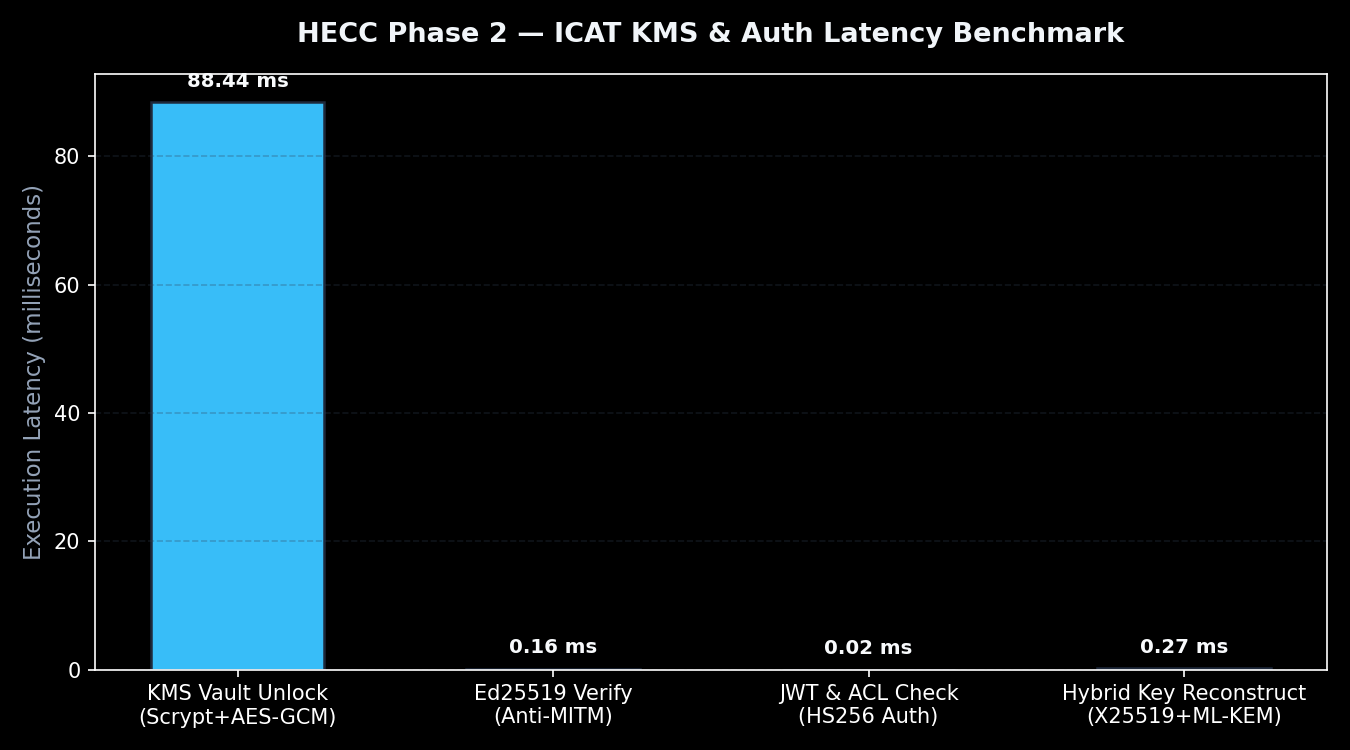
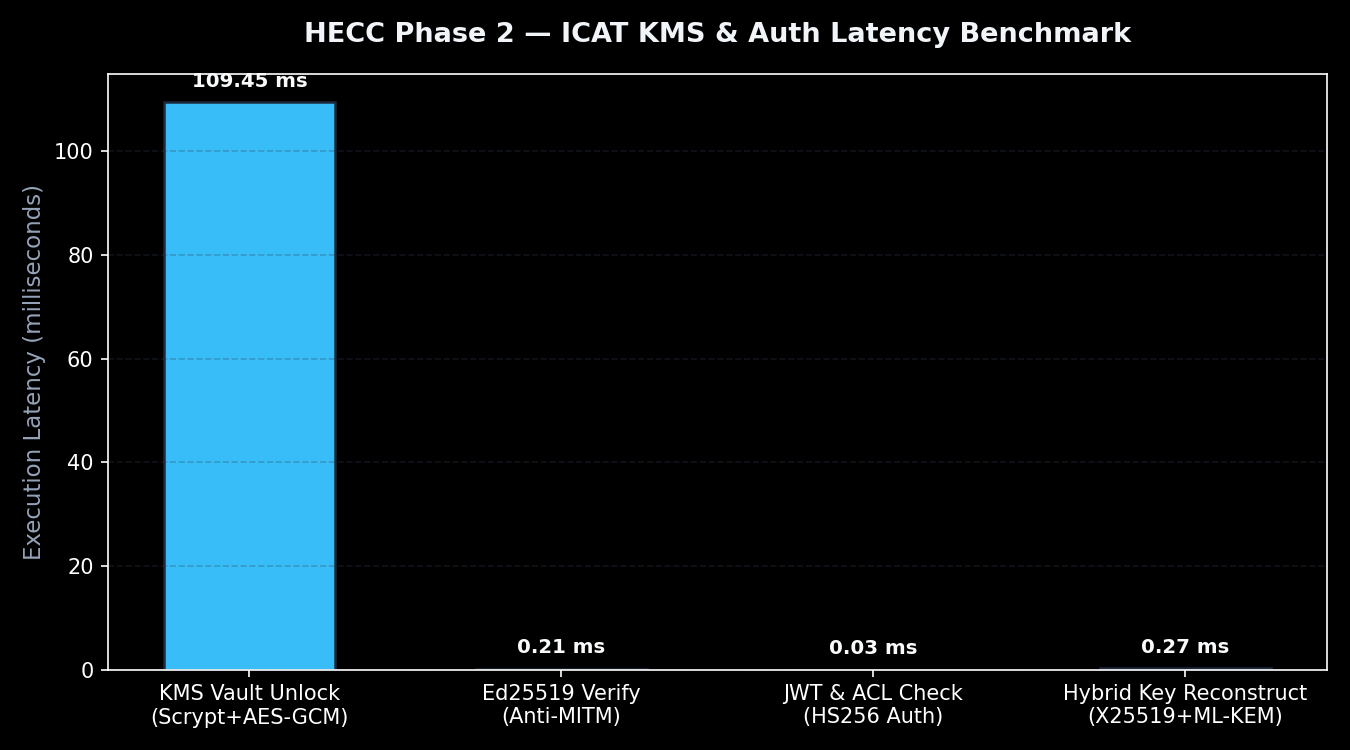
feat: remove cloud inbound enclaves card; enforce ICAT capsule-only decryption

diff --git a/web/receiver.html b/web/receiver.html
@@ -440,42 +440,10 @@ tr.selected td {
     <div class="status" id="auth-status" role="status"></div>
   </section>
 
-  <!-- Step 2: Inbound Cloud Files (Shared via Supabase) -->
-  <section class="panel" id="files-card" style="opacity: 0.45; pointer-events: none;">
-    <div class="panel-header">
-      <h2 class="panel-title">02. Cloud Inbound Enclaves</h2>
-      <span class="panel-spec">Supabase Encrypted Bucket</span>
-    </div>
-    <button class="btn-secondary" onclick="loadFiles()" style="margin-bottom: 0.75rem;">Query Shared Files</button>
-    <div class="table-wrapper">
-      <table>
-        <thead>
-          <tr>
-            <th>Artifact ID</th>
-            <th>Original Filename</th>
-            <th>Sender Origin</th>
-            <th>Version Chain</th>
-          </tr>
-        </thead>
-        <tbody id="file-list">
-          <tr><td colspan="4" style="text-align: center; color: var(--text-muted); padding: 1.5rem;">No encrypted files queried yet</td></tr>
-        </tbody>
-      </table>
-    </div>
-
-    <div style="font-family: var(--font-mono); font-size: 0.85rem; color: var(--text-dim); margin-top: 1.25rem; margin-bottom: 0.75rem;">
-      Selected Target: <span id="selected-file" style="color: var(--accent-emerald); font-weight: 600;">None selected</span>
-    </div>
-    <button id="decrypt-cloud-btn" class="btn-primary" onclick="doDecryptCloud()" disabled>
-      Validate Integrity &amp; Decrypt Cloud Payload
-    </button>
-    <div class="status" id="cloud-status" role="status"></div>
-  </section>
-
-  <!-- Step 3: Offline / ICAT Capsule Ingestion (.icat.json) -->
+  <!-- Step 2: Offline / ICAT Capsule Ingestion (.icat.json) -->
   <section class="panel" id="icat-card" style="opacity: 0.45; pointer-events: none;">
     <div class="panel-header">
-      <h2 class="panel-title">03. Ingest ICAT Capsule (.icat.json)</h2>
+      <h2 class="panel-title">02. Ingest ICAT Capsule (.icat.json)</h2>
       <span class="panel-spec">Split-Trust Decapsulation</span>
     </div>
     <p style="font-size: 0.85rem; color: var(--text-dim); margin-bottom: 1rem;">
@@ -581,14 +549,11 @@ function onAuthSuccess(data) {
   document.getElementById('auth-forms').style.display = 'none';
   document.getElementById('session-box').style.display = 'flex';
   document.getElementById('session-badge').textContent = `Authenticated: ${USER_EMAIL} | Vault Ready`;
-  setStatus('auth-status', 'ok', `✓ Session authorized as ${USER_EMAIL}. Ready to query and decrypt files.`);
+  setStatus('auth-status', 'ok', `✓ Session authorized as ${USER_EMAIL}. Ready to ingest ICAT capsule.`);
 
-  ['files-card', 'icat-card'].forEach(id => {
-    document.getElementById(id).style.opacity = '1';
-    document.getElementById(id).style.pointerEvents = 'auto';
-  });
-
-  loadFiles();
+  const icatCard = document.getElementById('icat-card');
+  icatCard.style.opacity = '1';
+  icatCard.style.pointerEvents = 'auto';
 }
 
 function doLogout() {
@@ -598,84 +563,13 @@ function doLogout() {
   TOKEN = null;
   USER_EMAIL = null;
   KMS_PASSPHRASE = null;
-  SELECTED = null;
 
   document.getElementById('auth-forms').style.display = 'block';
   document.getElementById('session-box').style.display = 'none';
-  ['files-card', 'icat-card'].forEach(id => {
-    document.getElementById(id).style.opacity = '0.45';
-    document.getElementById(id).style.pointerEvents = 'none';
-  });
+  const icatCard = document.getElementById('icat-card');
+  icatCard.style.opacity = '0.45';
+  icatCard.style.pointerEvents = 'none';
   setStatus('auth-status', 'info', 'Logged out. Session cleared.');
-}
-
-async function loadFiles() {
-  try {
-    const r = await fetch('/api/files', { headers: { 'Authorization': 'Bearer ' + TOKEN } });
-    const files = await r.json();
-    const tbody = document.getElementById('file-list');
-    if (!files.length) {
-      tbody.innerHTML = '<tr><td colspan="4" style="text-align: center; color: var(--text-muted); padding: 1.5rem;">No files shared with this receiver account</td></tr>';
-      return;
-    }
-    tbody.innerHTML = files.map(f =>
-      `<tr onclick="selectFile('${f.file_id}','${f.original_filename}')" data-fid="${f.file_id}">
-         <td><code style="color: var(--accent-cyan); font-weight:600;">${f.file_id}</code></td>
-         <td>${f.original_filename}</td>
-         <td>${f.owner_email}</td>
-         <td><span class="version-pill">v${f.version}</span></td>
-       </tr>`
-    ).join('');
-  } catch (err) {
-    setStatus('cloud-status', 'err', 'Failed to retrieve file manifest: ' + err.message);
-  }
-}
-
-function selectFile(fid, fname) {
-  SELECTED = fid;
-  document.getElementById('selected-file').textContent = fid + ' (' + fname + ')';
-  document.getElementById('decrypt-cloud-btn').disabled = false;
-  document.querySelectorAll('#file-list tr').forEach(tr => {
-    tr.classList.toggle('selected', tr.dataset.fid === fid);
-  });
-}
-
-async function doDecryptCloud() {
-  if (!SELECTED) return;
-  const btn = document.getElementById('decrypt-cloud-btn');
-  btn.disabled = true;
-  btn.innerHTML = '<span class="spinner"></span> Validating &amp; Decrypting…';
-  setStatus('cloud-status', 'info', 'Auditing version chain against local ledger, downloading fragments, and executing parallel AES-GCM recovery…');
-
-  try {
-    const pwd = KMS_PASSPHRASE || localStorage.getItem('account_password') || '';
-    const headers = { 'Authorization': 'Bearer ' + TOKEN };
-    if (pwd) {
-      headers['kms-passphrase'] = pwd;
-    }
-
-    const r = await fetch('/api/download/' + SELECTED, { headers });
-    if (!r.ok) {
-      const text = await r.text();
-      let msg = text;
-      try { msg = JSON.parse(text).detail || text; } catch (_) {}
-      throw new Error(msg || r.statusText);
-    }
-    const blob = await r.blob();
-    const cd = r.headers.get('content-disposition') || '';
-    const match = cd.match(/filename="(.+?)"/);
-    const fname = match ? match[1] : 'recovered_file';
-    const a = document.createElement('a');
-    a.href = URL.createObjectURL(blob);
-    a.download = fname;
-    a.click();
-    URL.revokeObjectURL(a.href);
-    setStatus('cloud-status', 'ok', '✓ Payload verified (Merkle + anti-rollback validated), decrypted, and extracted.');
-  } catch (e) {
-    setStatus('cloud-status', 'err', '✗ ' + e.message);
-  }
-  btn.disabled = false;
-  btn.textContent = 'Validate Integrity & Decrypt Cloud Payload';
 }
 
 async function doIngestAndDecrypt() {
